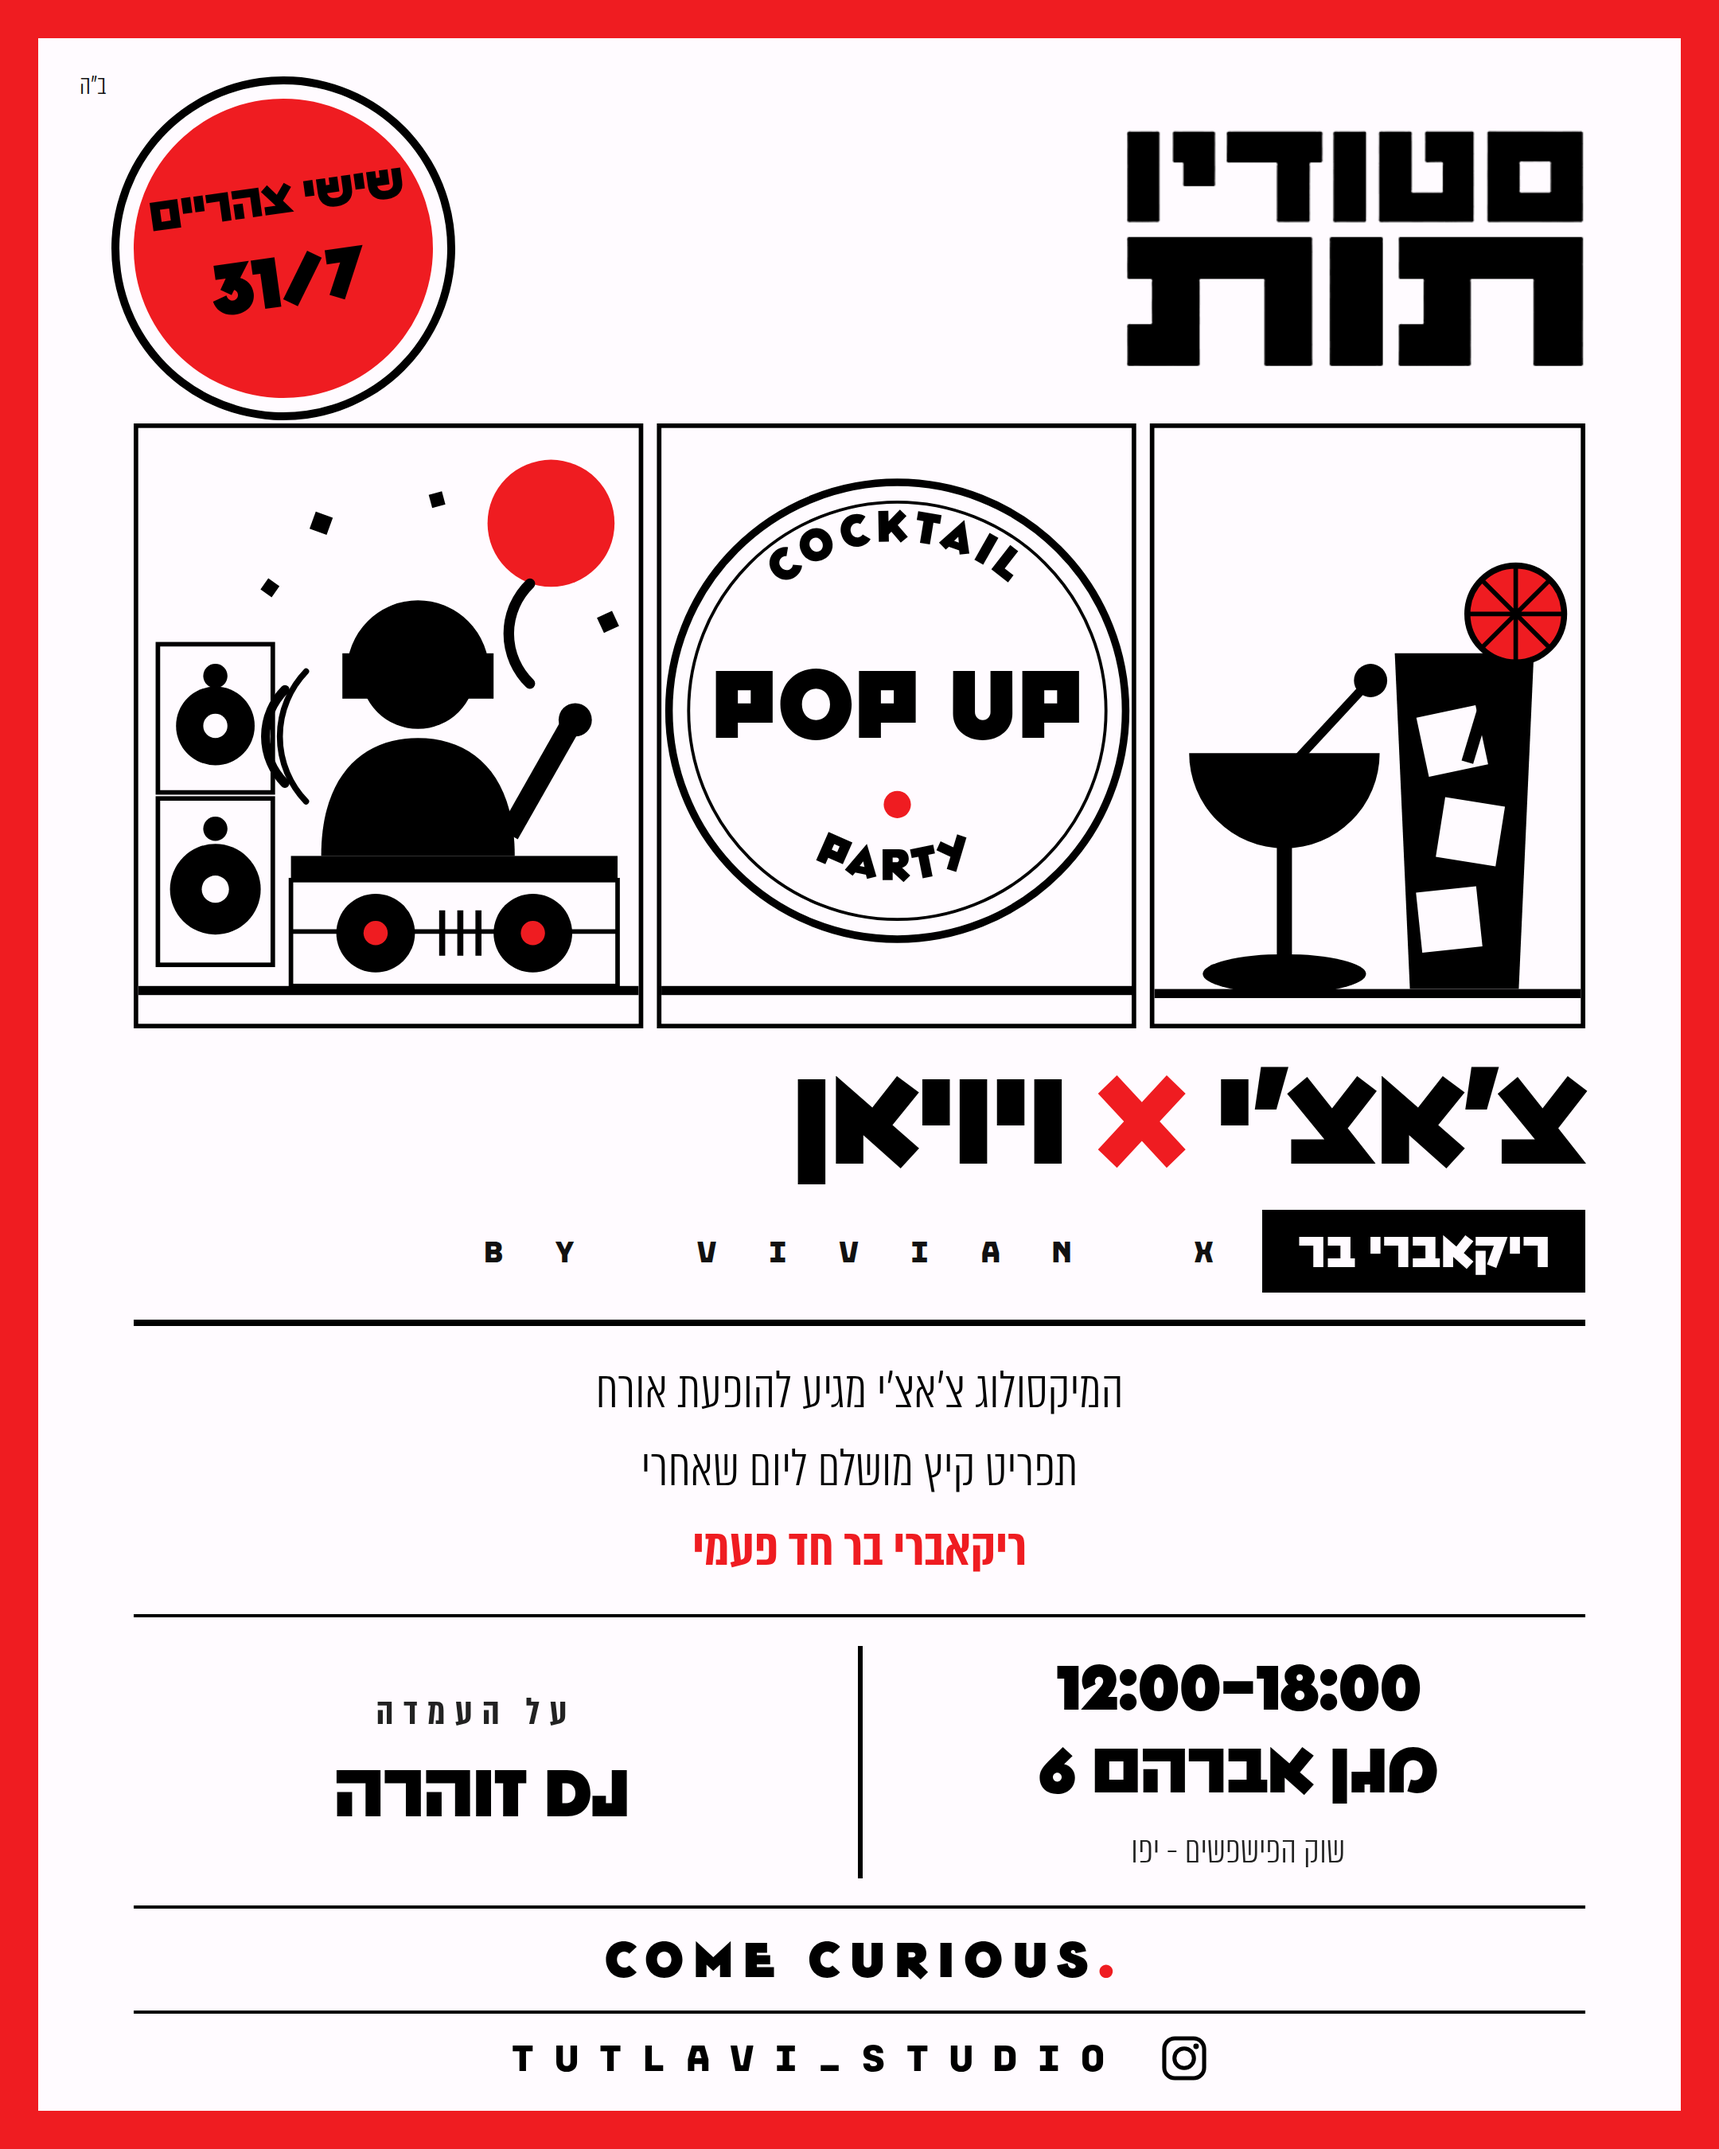
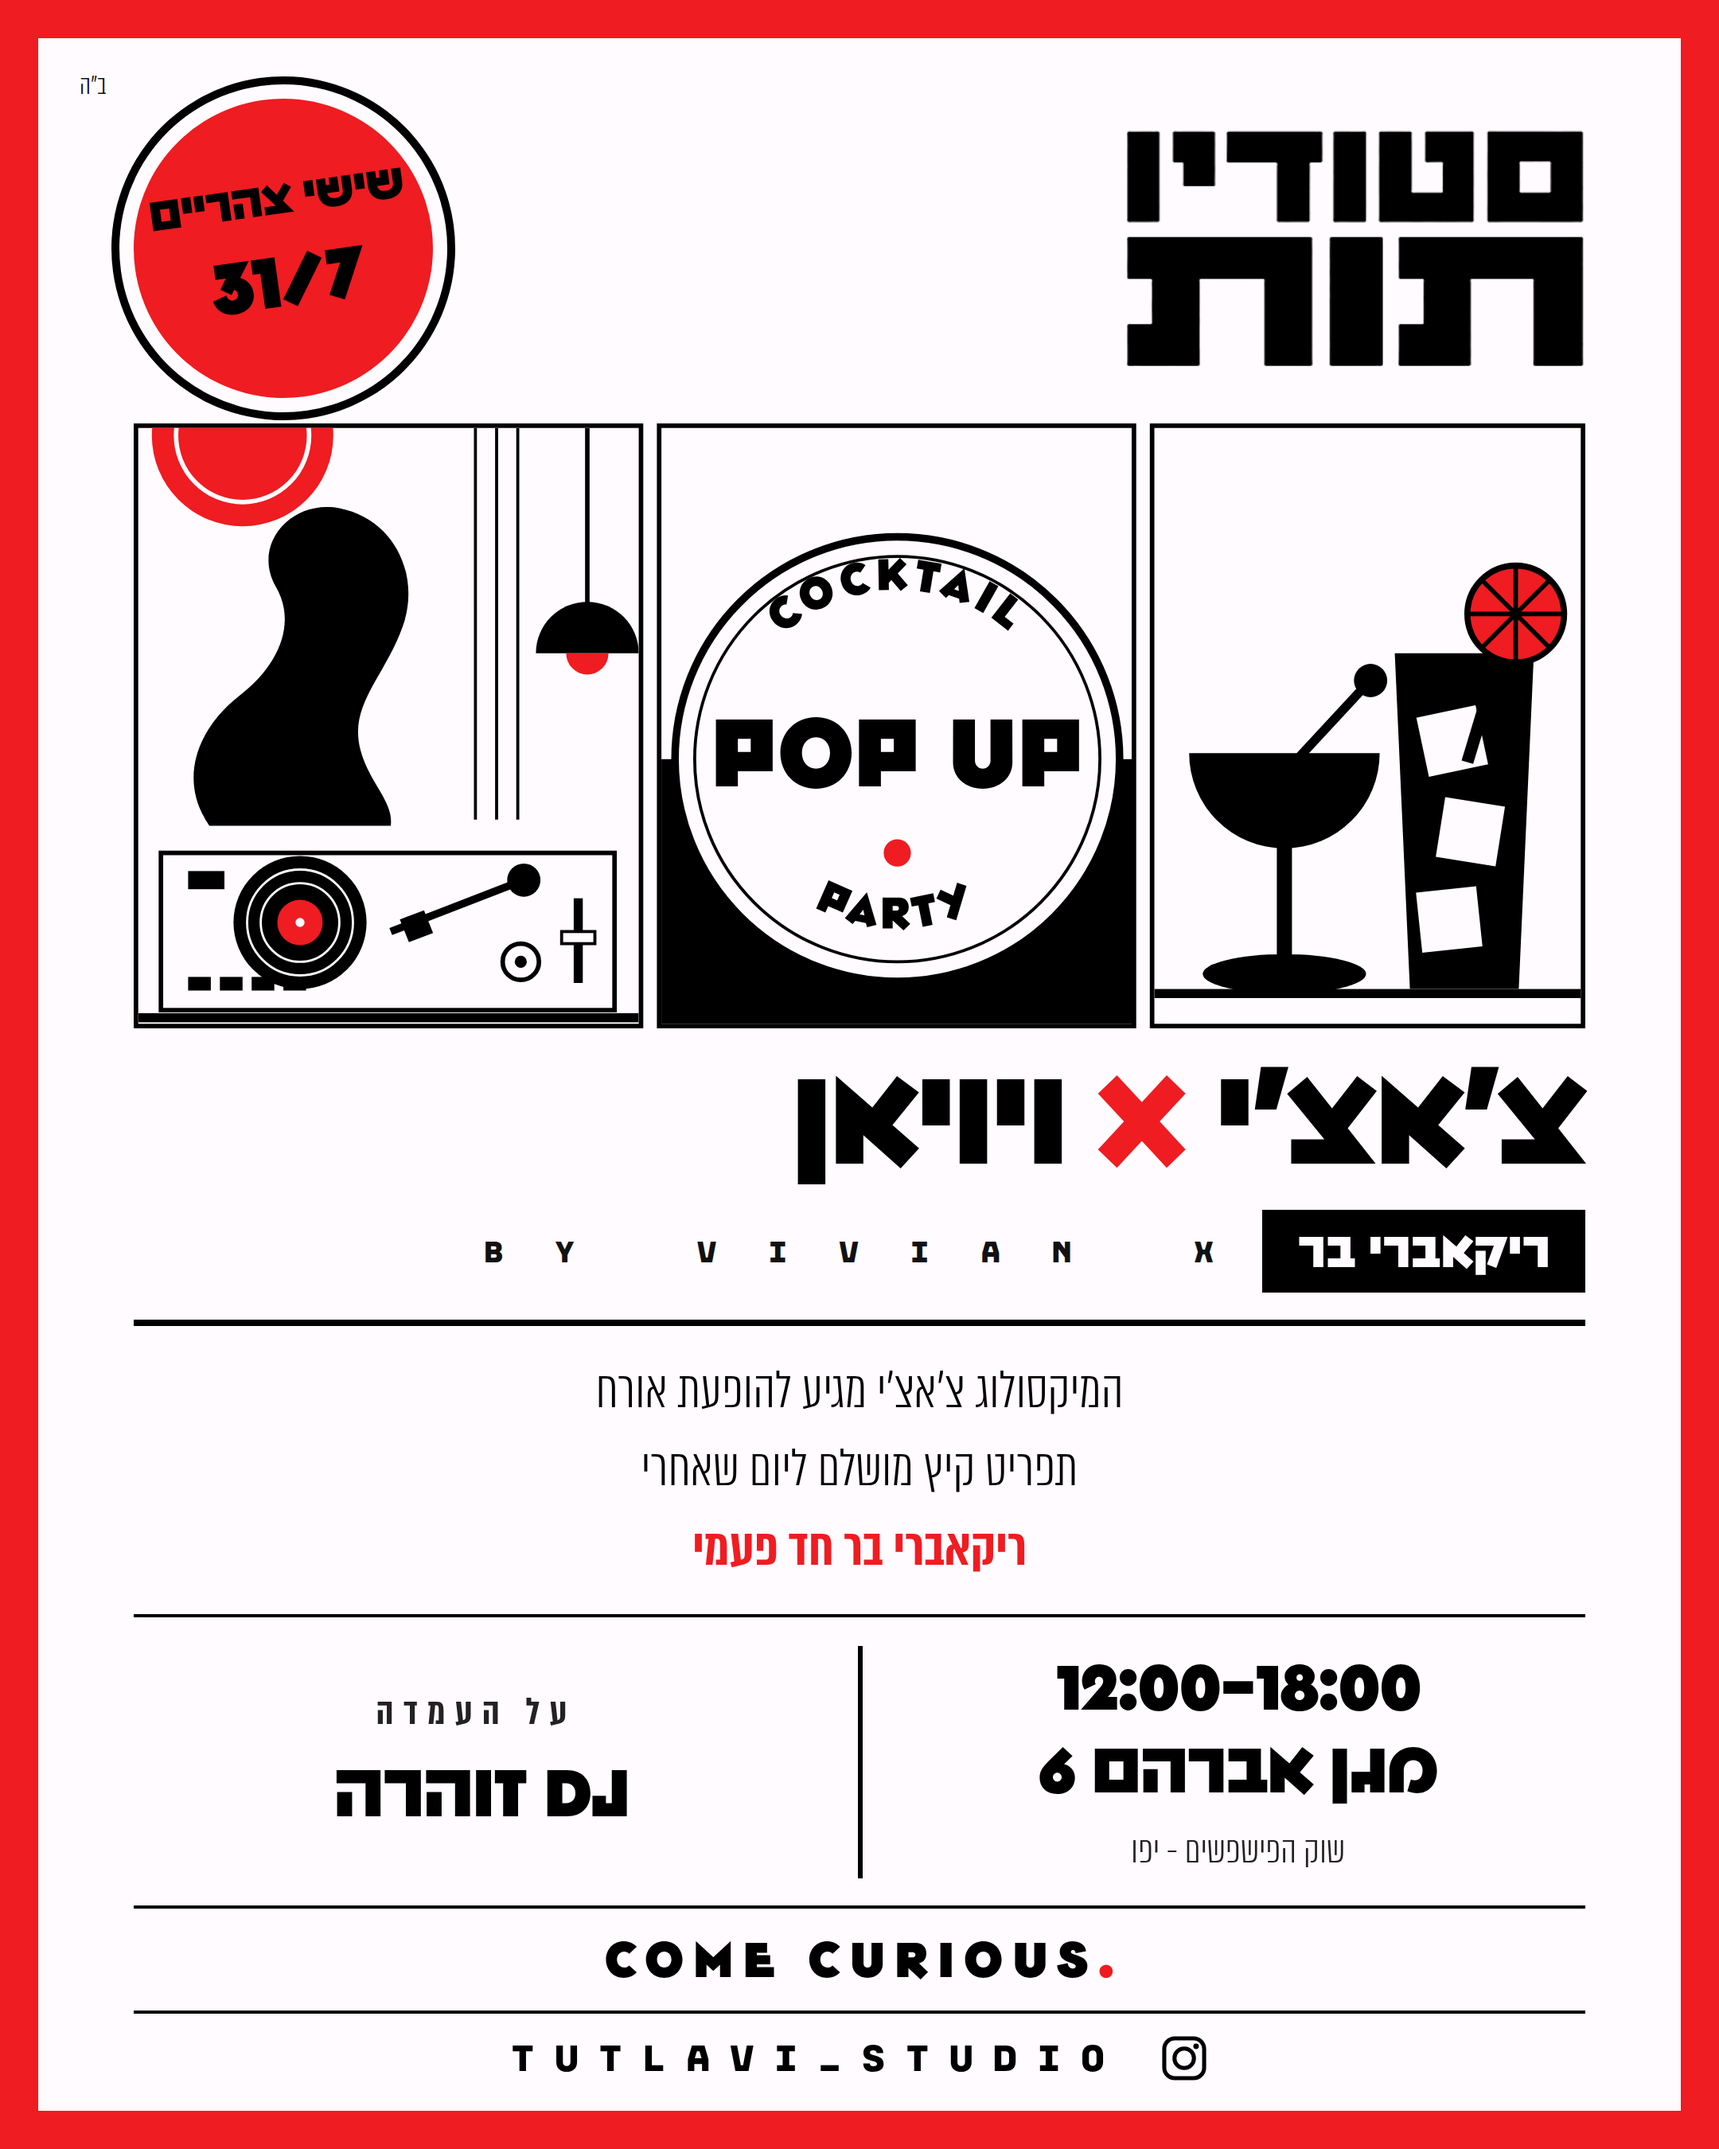
poster: rebuild the DJ panel in the poster idiom, restore the badge cut
- swap the silhouette scene for a plan-view turntable: platter with
  grooves and a red label, tone arm, pitch fader, knob and buttons
- add the organic blob, thin vertical rules, cropped red sun and a
  pendant lamp, matching the opening-party poster's left panel
- illustrated variant gets the black lower half back so the giant badge
  straddles the black/white cut again

Claude-Session: https://claude.ai/code/session_01AhfEANtPutTF2tRQEqNaFG

Changed region(s): [[0.062, 0.1867, 0.6824, 0.4978]]

diff --git a/media/brand/poster-chachi.html b/media/brand/poster-chachi.html
@@ -98,58 +98,57 @@
       <rect x="673.5" y="1.5" width="285" height="397"/>
     </g>
 
-    <!-- ================= LEFT PANEL: DJ booth ================= -->
+    <!-- ================= LEFT PANEL: turntable · blob · pendant lamp ================= -->
     <clipPath id="cL"><rect x="3" y="3" width="331" height="394"/></clipPath>
     <g clip-path="url(#cL)">
-      <!-- red sun / disco light -->
-      <circle cx="276" cy="66" r="42" fill="#ef1c21"/>
+      <!-- red sun, cropped by the panel edge -->
+      <circle cx="72" cy="8" r="60" fill="#ef1c21"/>
+      <circle cx="72" cy="8" r="44" fill="none" stroke="#fffbff" stroke-width="3"/>
 
-      <!-- speaker stack -->
-      <g stroke="#000" stroke-width="3" fill="#fffbff">
-        <rect x="16" y="146" width="76" height="98"/>
-        <rect x="16" y="248" width="76" height="110"/>
-      </g>
-      <circle cx="54" cy="200" r="26" fill="#000"/><circle cx="54" cy="200" r="8" fill="#fffbff"/>
-      <circle cx="54" cy="167" r="8"  fill="#000"/>
-      <circle cx="54" cy="308" r="30" fill="#000"/><circle cx="54" cy="308" r="9" fill="#fffbff"/>
-      <circle cx="54" cy="268" r="8"  fill="#000"/>
+      <!-- organic blob -->
+      <path d="M50 266 C28 234 44 200 70 180 C96 160 108 132 94 108
+               C78 80 104 50 136 56 C172 63 190 100 178 134
+               C166 168 142 186 150 216 C156 238 172 250 170 266 Z" fill="#000"/>
 
-      <!-- DJ silhouette behind the booth -->
-      <path d="M124 286 C124 232 152 208 188 208 C224 208 252 232 252 286 Z" fill="#000"/>
-      <path d="M242 268 L284 194 L296 201 L254 275 Z" fill="#000"/>
-      <circle cx="292" cy="196" r="11" fill="#000"/>
-      <circle cx="188" cy="164" r="38" fill="#000"/>
-      <path d="M146 164 a42 42 0 0 1 84 0" fill="none" stroke="#000" stroke-width="10"/>
-      <rect x="138" y="152" width="18" height="30" fill="#000"/>
-      <rect x="220" y="152" width="18" height="30" fill="#000"/>
-
-      <!-- sound waves -->
-      <g fill="none" stroke="#000" stroke-linecap="round">
-        <path d="M262 172 a46 46 0 0 1 0 -66" stroke-width="7"/>
-        <path d="M280 186 a66 66 0 0 0 0 -94" stroke-width="5" opacity="0"/>
-        <path d="M100 176 a44 44 0 0 0 0 62" stroke-width="6"/>
-        <path d="M114 164 a62 62 0 0 0 0 86" stroke-width="4"/>
+      <!-- thin vertical rules -->
+      <g stroke="#000" stroke-width="2">
+        <path d="M226 3 V262 M240 3 V262 M254 3 V262"/>
       </g>
 
-      <!-- booth -->
-      <rect x="104" y="286" width="216" height="16" fill="#000"/>
-      <rect x="104" y="302" width="216" height="70" fill="#fffbff" stroke="#000" stroke-width="3"/>
-      <g stroke="#000" stroke-width="3"><path d="M104 336 H320"/></g>
-      <!-- turntable on the booth face -->
-      <circle cx="160" cy="337" r="26" fill="#000"/><circle cx="160" cy="337" r="8" fill="#ef1c21"/>
-      <circle cx="264" cy="337" r="26" fill="#000"/><circle cx="264" cy="337" r="8" fill="#ef1c21"/>
-      <g class="s-clay" stroke="#c2603c" stroke-width="4"><path d="M204 322 v30 M216 322 v30 M228 322 v30"/></g>
+      <!-- pendant lamp -->
+      <path d="M300 3 V150" stroke="#000" stroke-width="3" fill="none"/>
+      <path d="M266 152 a34 34 0 0 1 68 0 Z" fill="#000"/>
+      <path d="M286 152 a14 14 0 0 0 28 0 Z" fill="#ef1c21"/>
 
-      <!-- confetti -->
+      <!-- ---- turntable, plan view ---- -->
+      <rect x="18" y="284" width="300" height="104" fill="#fffbff" stroke="#000" stroke-width="3"/>
+      <!-- platter -->
+      <circle cx="110" cy="330" r="44" fill="#000"/>
+      <circle cx="110" cy="330" r="35" fill="none" stroke="#fffbff" stroke-width="1.5"/>
+      <circle cx="110" cy="330" r="26" fill="none" stroke="#fffbff" stroke-width="1.5"/>
+      <circle cx="110" cy="330" r="15" fill="#ef1c21"/>
+      <circle cx="110" cy="330" r="3"  fill="#fffbff"/>
+      <!-- tone arm -->
+      <circle cx="258" cy="302" r="11" fill="#000"/>
+      <path d="M258 302 L170 336" stroke="#000" stroke-width="5" fill="none"/>
+      <path d="M176 328 l16 -6 6 15 -16 6 Z" fill="#000"/>
+      <!-- pitch fader -->
+      <rect x="291" y="314" width="6" height="56" fill="#000"/>
+      <rect x="283" y="336" width="22" height="8" fill="#fffbff" stroke="#000" stroke-width="2"/>
+      <!-- knob -->
+      <circle cx="256" cy="356" r="12" fill="none" stroke="#000" stroke-width="3"/>
+      <circle cx="256" cy="356" r="4"  fill="#000"/>
+      <!-- buttons -->
       <g fill="#000">
-        <rect x="118" y="60"  width="12" height="12" transform="rotate(20 124 66)"/>
-        <rect x="196" y="46"  width="9"  height="9"  transform="rotate(-15 200 50)"/>
-        <rect x="86"  y="104" width="9"  height="9"  transform="rotate(35 90 108)"/>
-        <rect x="308" y="126" width="11" height="11" transform="rotate(-25 313 131)"/>
+        <rect x="36" y="296" width="24" height="12"/>
+        <rect x="36" y="366" width="15" height="9"/>
+        <rect x="57" y="366" width="15" height="9"/>
+        <rect x="78" y="366" width="15" height="9"/>
+        <rect x="99" y="366" width="15" height="9"/>
       </g>
 
       <!-- floor -->
-      <rect x="3" y="372" width="331" height="6" fill="#000"/>
+      <rect x="3" y="390" width="331" height="6" fill="#000"/>
     </g>
 
     <!-- ================= MIDDLE PANEL ================= -->
@@ -179,10 +178,10 @@
 
     <!-- version B: giant badge on a clean panel -->
     <g class="v-illus">
-      <rect x="349" y="372" width="313" height="6" fill="#000"/>
-      <g transform="translate(505 190)">
-        <circle r="151" fill="#fffbff" stroke="#000" stroke-width="5"/>
-        <circle r="138" fill="none" stroke="#000" stroke-width="2"/>
+      <g clip-path="url(#cM)"><rect x="349" y="222" width="313" height="175" fill="#000"/></g>
+      <g transform="translate(505 222)">
+        <circle r="147" fill="#fffbff" stroke="#000" stroke-width="5"/>
+        <circle r="134" fill="none" stroke="#000" stroke-width="2"/>
         <path id="arcTop" d="M -112 0 A 112 112 0 0 1 112 0" fill="none"/>
         <path id="arcBot" d="M -112 0 A 112 112 0 0 0 112 0" fill="none"/>
         <text font-family="Tut" font-weight="900" font-size="34" letter-spacing="3" fill="#000">
